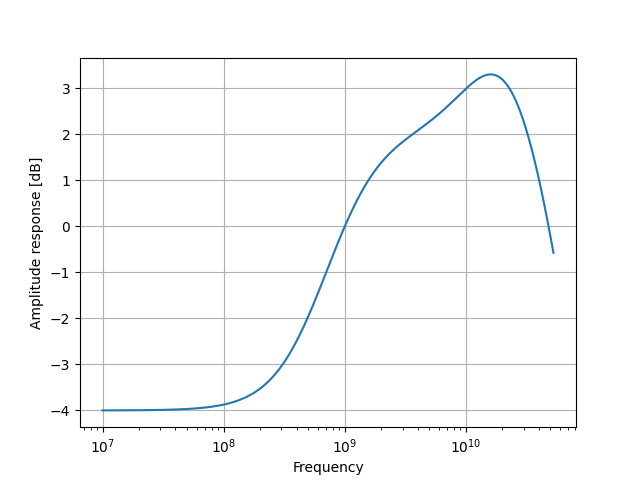
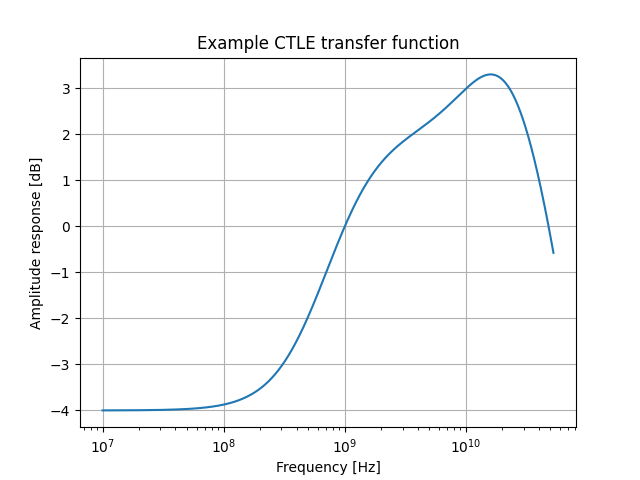
minor change

Changed region(s): [[0.3125, 0.0625, 0.7188, 0.125], [0.4375, 0.9688, 0.5938, 1.0]]

diff --git a/test/example_scripts/example_runs.py b/test/example_scripts/example_runs.py
@@ -162,7 +162,7 @@ def rx_example(ch_out_eye=False, show_ctle=False, ctle_out_eye=False, rx_ffe_eye
         plt.semilogx(w_dis[w_dis < fs], 20 * np.log10(abs(h_dis[w_dis < fs])))
         plt.xlabel('Frequency')
         plt.ylabel('Amplitude response [dB]')
-        # plt.ylim([-5, 20])
+        plt.title('Example CTLE transfer function')
         plt.grid()
         plt.show()
     ctle_out = cdsp.rx.ctle(ch_out, zeros, poles, dc_gain, fs=fs, osr=osr)
